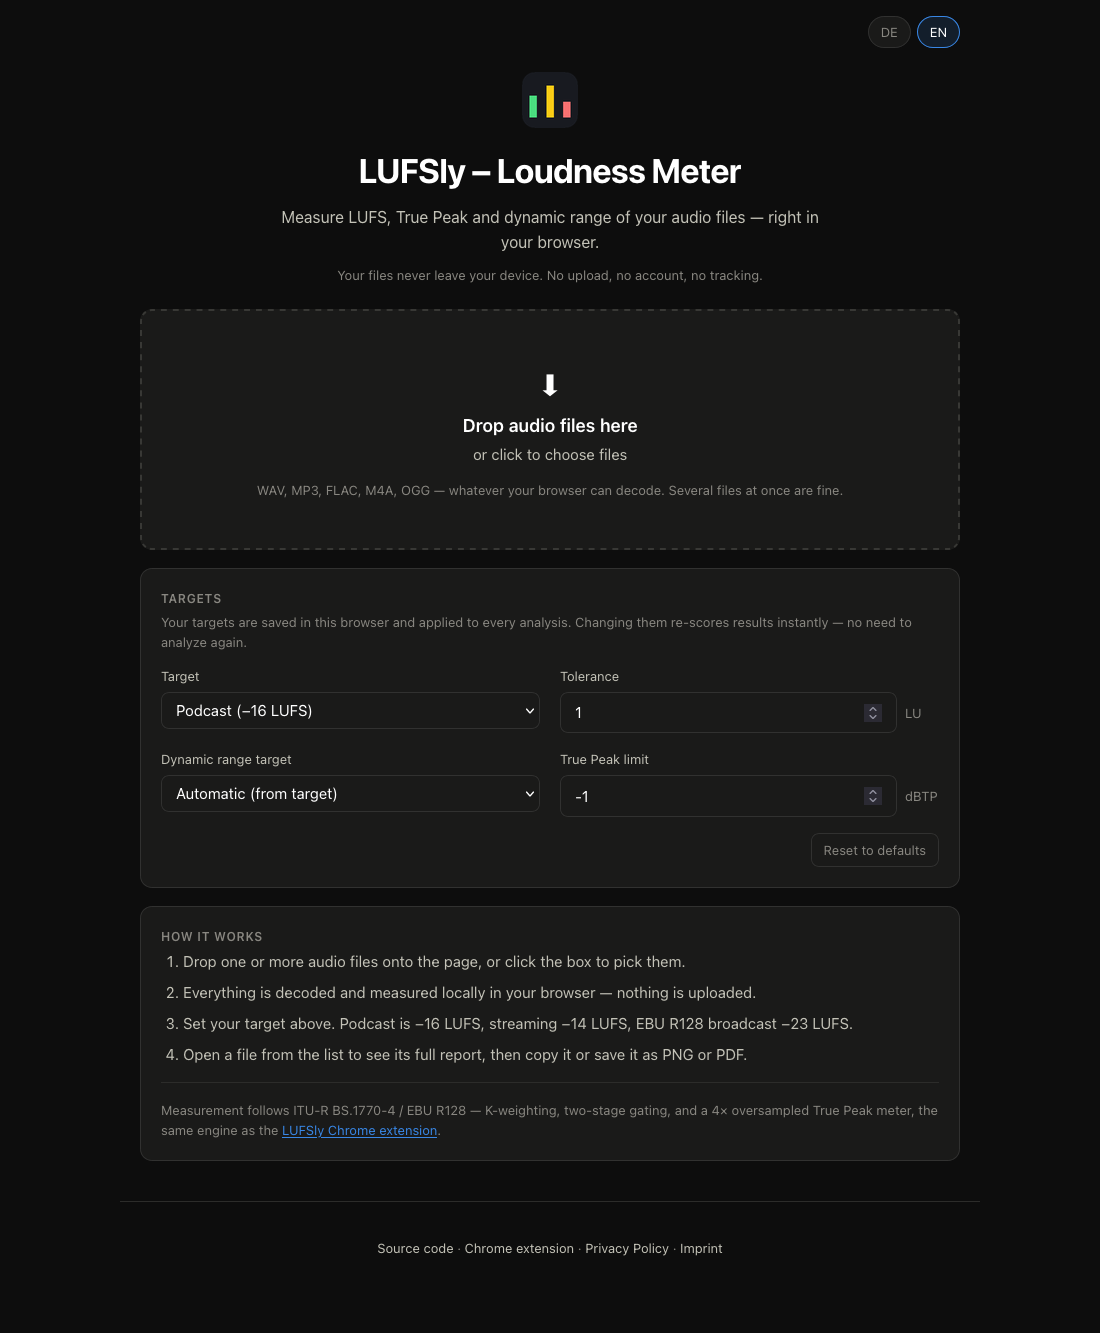
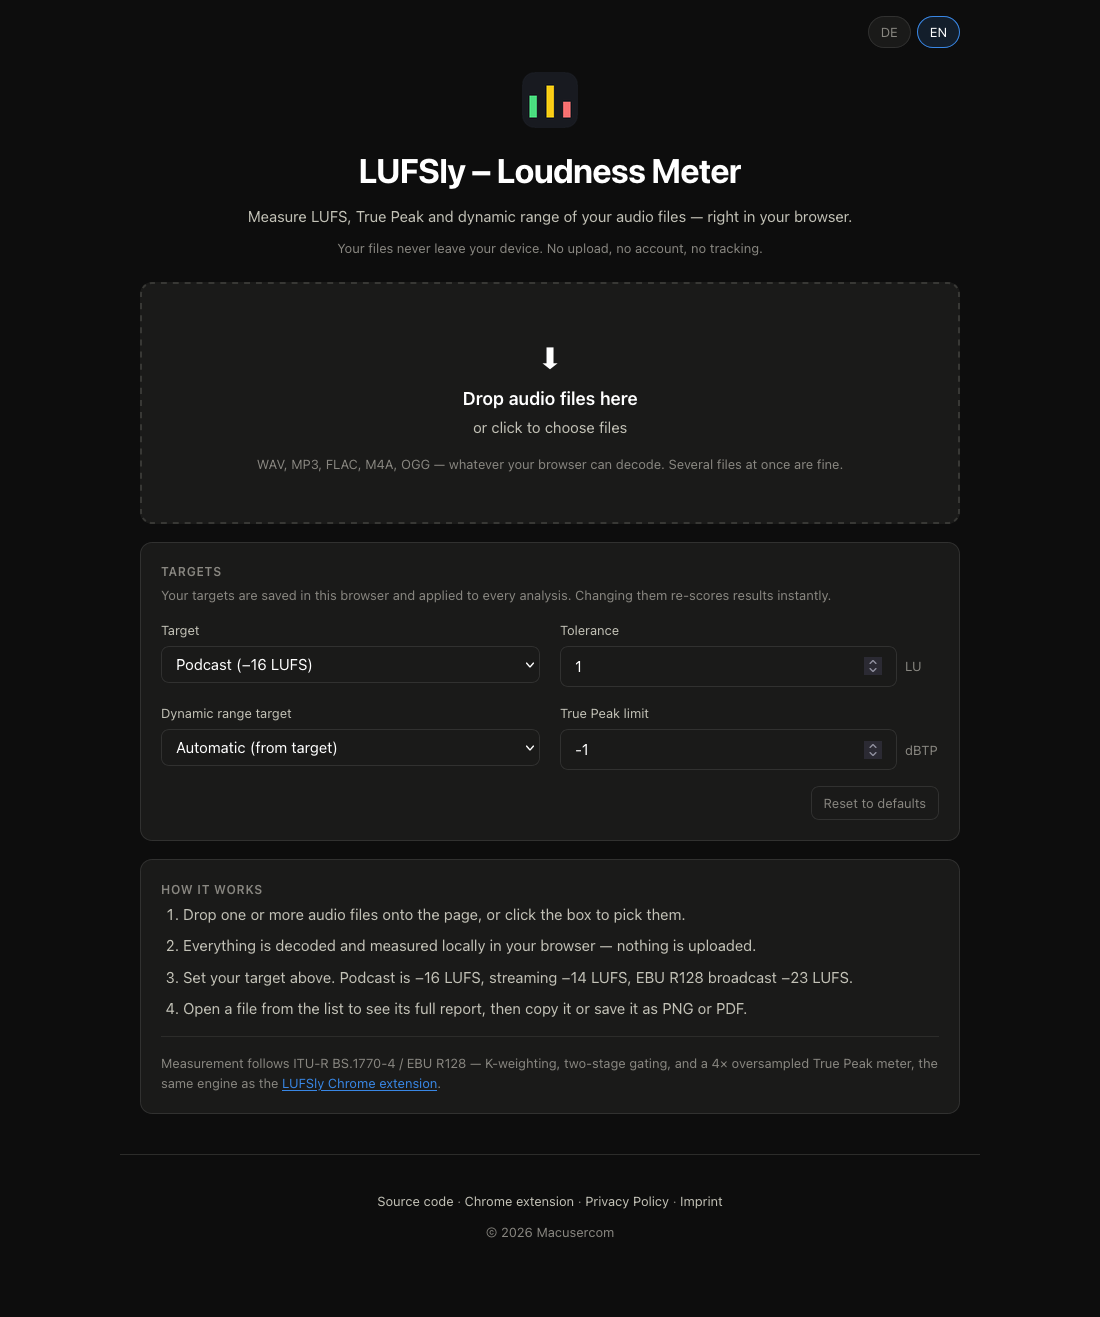
Update README

diff --git a/report.js b/report.js
@@ -848,19 +848,18 @@ export function initReport({ fmt, drBand, peakClass, loudnessVerdict, getPreset,
           ctx.restore();
         }
 
-        // The range gets a lighter weight than the peak contour: at full
-        // opacity the spans dominate and the chart reads as a solid block,
-        // which is what hiding the minimum was meant to avoid.
+        // The lower bound gets its own contour rather than a filled span per
+        // column. A vertical span per pixel column tiles with its neighbours
+        // into a solid wash — that is a fill however faint it is drawn — while
+        // two traces keep the background visible between them and still show
+        // the dips: the lower line rises whenever the quiet moments stop.
         ctx.save();
-        ctx.globalAlpha = 0.28;
+        ctx.globalAlpha = 0.5;
         ctx.strokeStyle = color;
         ctx.beginPath();
         for (let k = i; k <= j; k++) {
-          const p = points[k];
-          const yHi = yAt(p.hi), yLo = yAt(p.lo);
-          if (yLo - yHi < 0.5) continue;   // nothing to span
-          ctx.moveTo(p.x, yHi);
-          ctx.lineTo(p.x, yLo);
+          const y = yAt(points[k].lo);
+          k === i ? ctx.moveTo(points[k].x, y) : ctx.lineTo(points[k].x, y);
         }
         ctx.stroke();
         ctx.restore();

diff --git a/README.md b/README.md
@@ -12,7 +12,9 @@ A privacy-first web app that measures the loudness (LUFS), True Peak and dynamic
 - True Peak in dBTP with 4× oversampling, so inter-sample peaks are caught
 - Dynamic range as LRA (EBU Tech 3342), plus PLR (Peak-to-Loudness Ratio)
 - Traffic-light verdicts — too quiet / just right / too loud, how much dynamics, and whether it clipped
-- Short-term loudness graph over the whole file, with your target drawn in
+- Three charts per report on a shared time axis: Short-term loudness with your target drawn in, True Peak with a marker at every overshoot and the times listed, and dynamic range (rolling LRA)
+- Hovering any chart reads all three at that instant, with a synced crosshair
+- Codec and bitrate read from the file itself, plus a collapsible panel with its title, artist, date and encoder
 - Export any report as PNG or PDF, or copy it as text
 - Loudness targets: Podcast (−16 LUFS), Streaming (−14 LUFS), Broadcast EBU R128 (−23 LUFS), None, or your own value
 - Your own dynamic range target, tolerance and True Peak limit
@@ -21,6 +23,7 @@ A privacy-first web app that measures the loudness (LUFS), True Peak and dynamic
 - Compare a batch at a glance: every file listed with its key values, colour-coded against your targets
 - Info icons (ⓘ) next to every value explaining what it means
 - German and English UI, follows your browser language
+- Files are decoded at their own sample rate, so nothing is resampled before it is measured
 - No audio or data ever leaves your machine
 
 Measurement follows ITU-R BS.1770-4 / EBU R128 (K-weighting, two-stage gating) using the same DSP core as the [LUFSly Chrome extension](https://github.com/Macusercom/lufsly-extension), so results match between the two.
@@ -73,7 +76,7 @@ No data ever leaves your device. Built as a vibe coding project with [Claude](ht
     </td>
     <td width="33%" align="center">
       <img src="images/image2.png" alt="Analyzed files and report" width="100%"><br>
-      <sub><b>Analysis</b> — batch list and full report</sub>
+      <sub><b>Analysis</b> — batch list, metrics and the three charts</sub>
     </td>
     <td width="33%" align="center">
       <img src="images/image3.png" alt="Exported report" width="100%"><br>